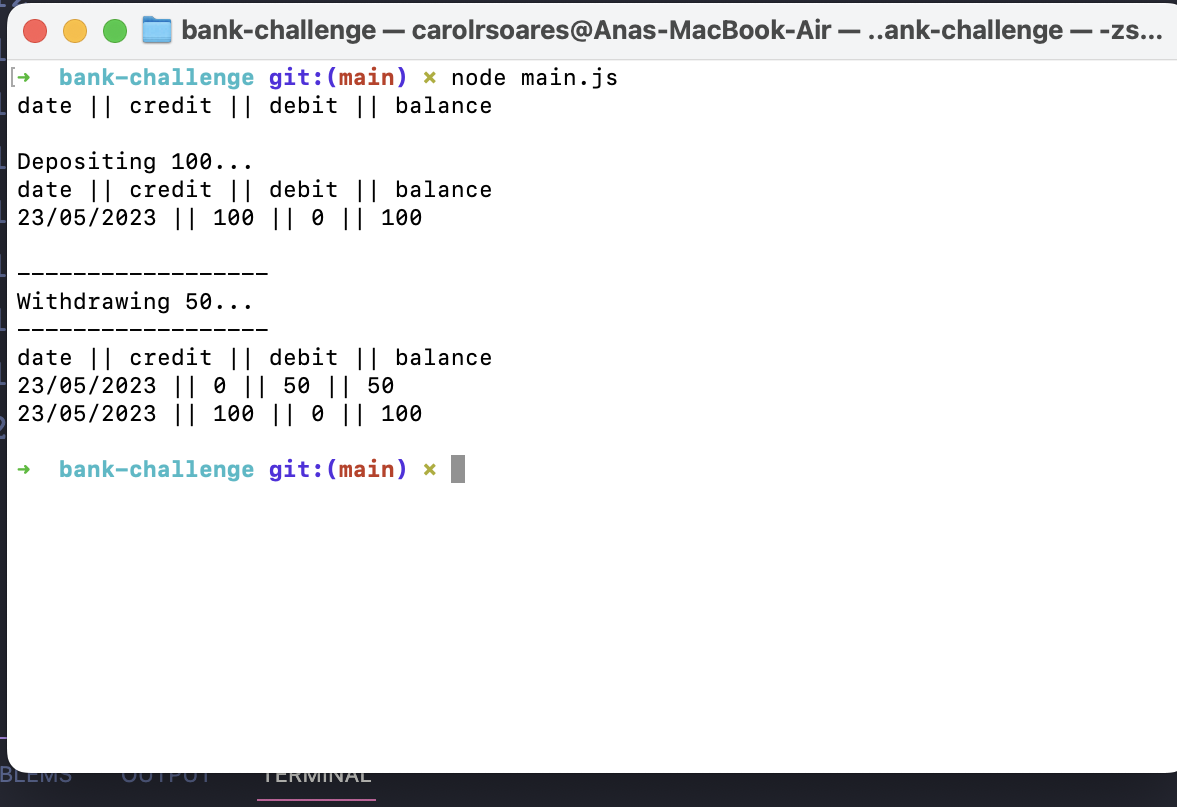
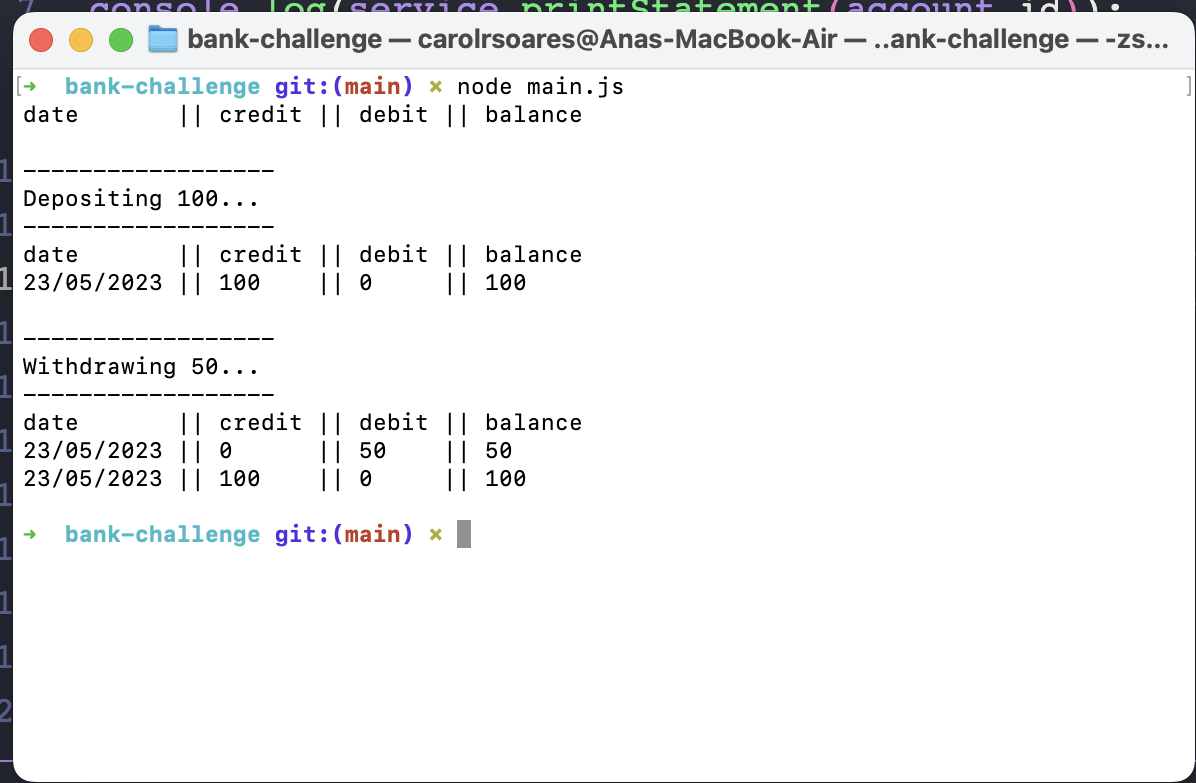
fixing padding for statementPrint

diff --git a/services/account.js b/services/account.js
@@ -34,11 +34,11 @@ class AccountService {
 
 
   printStatement(accountId) {
-    let output = "date || credit || debit || balance\n";
+    let output = "date".padEnd(10," ") + " || credit || debit || balance\n";
     const account = this.accountRepository.findById(accountId);
     account.transactions.reverse().forEach((transaction) => {
 
-      output += `${transaction.formateDate()} || ${transaction.credit} || ${transaction.debit} || ${transaction.amount}\n`;
+      output += `${transaction.formateDate()} || ${transaction.credit}`.padEnd(21, " ") + `|| ${transaction.debit}`.padEnd(9, " ") + `|| ${transaction.amount}\n`;
     })
     return output;
   }

diff --git a/main.js b/main.js
@@ -6,10 +6,10 @@ const account = service.create();
 
 console.log(service.printStatement(account.id));
 
+console.log('------------------')
 console.log('Depositing 100...');
-
 service.deposit(account.id, 100, new Date());
-
+console.log('------------------')
 console.log(service.printStatement(account.id));
 
 console.log('------------------');
